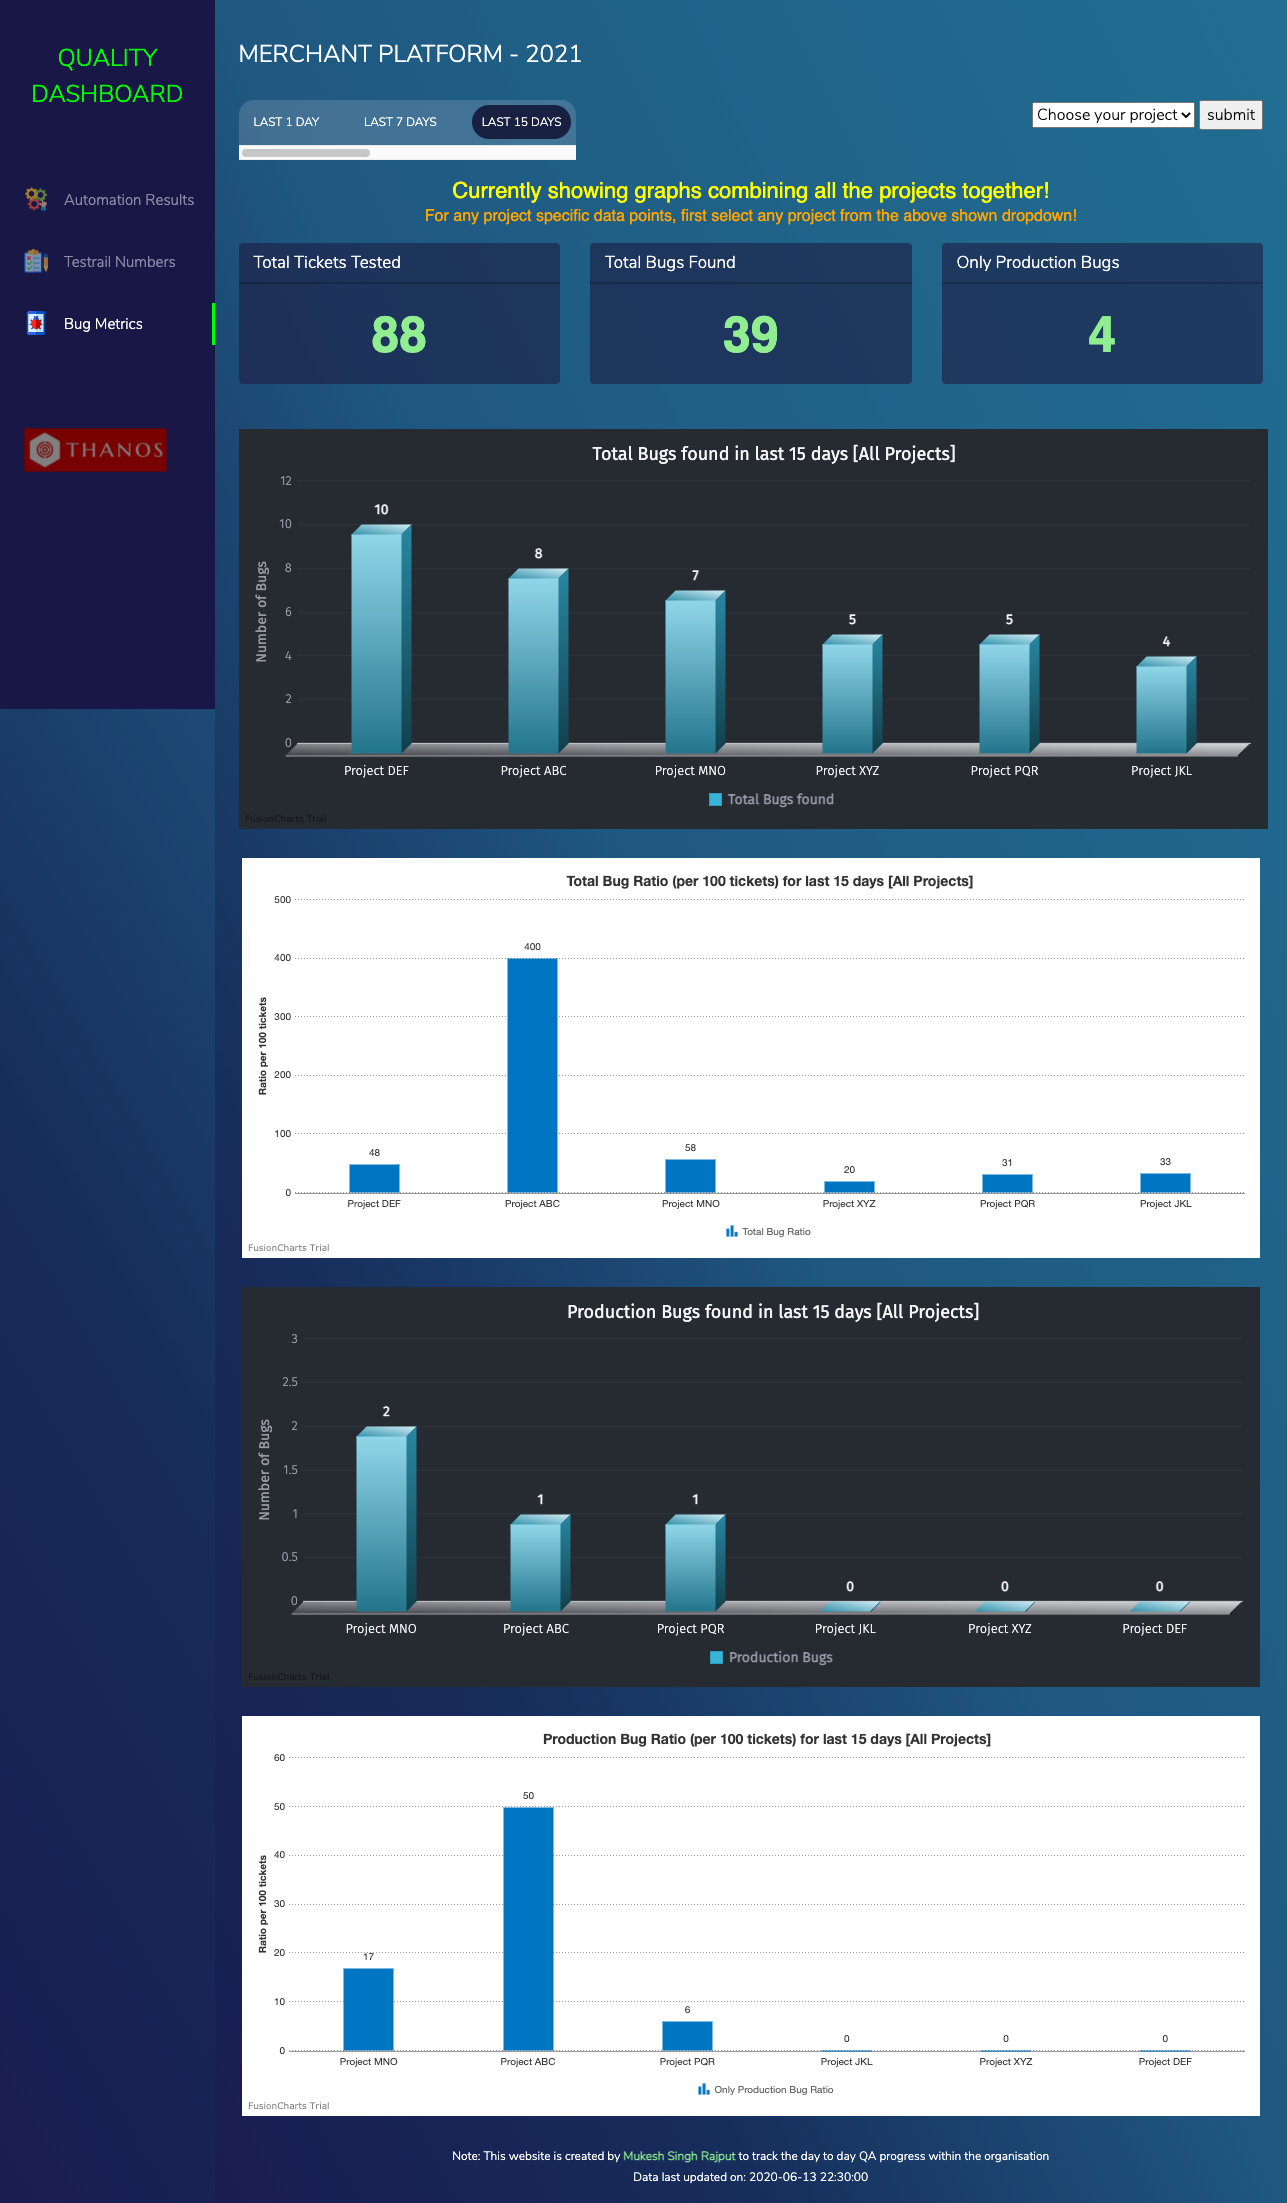
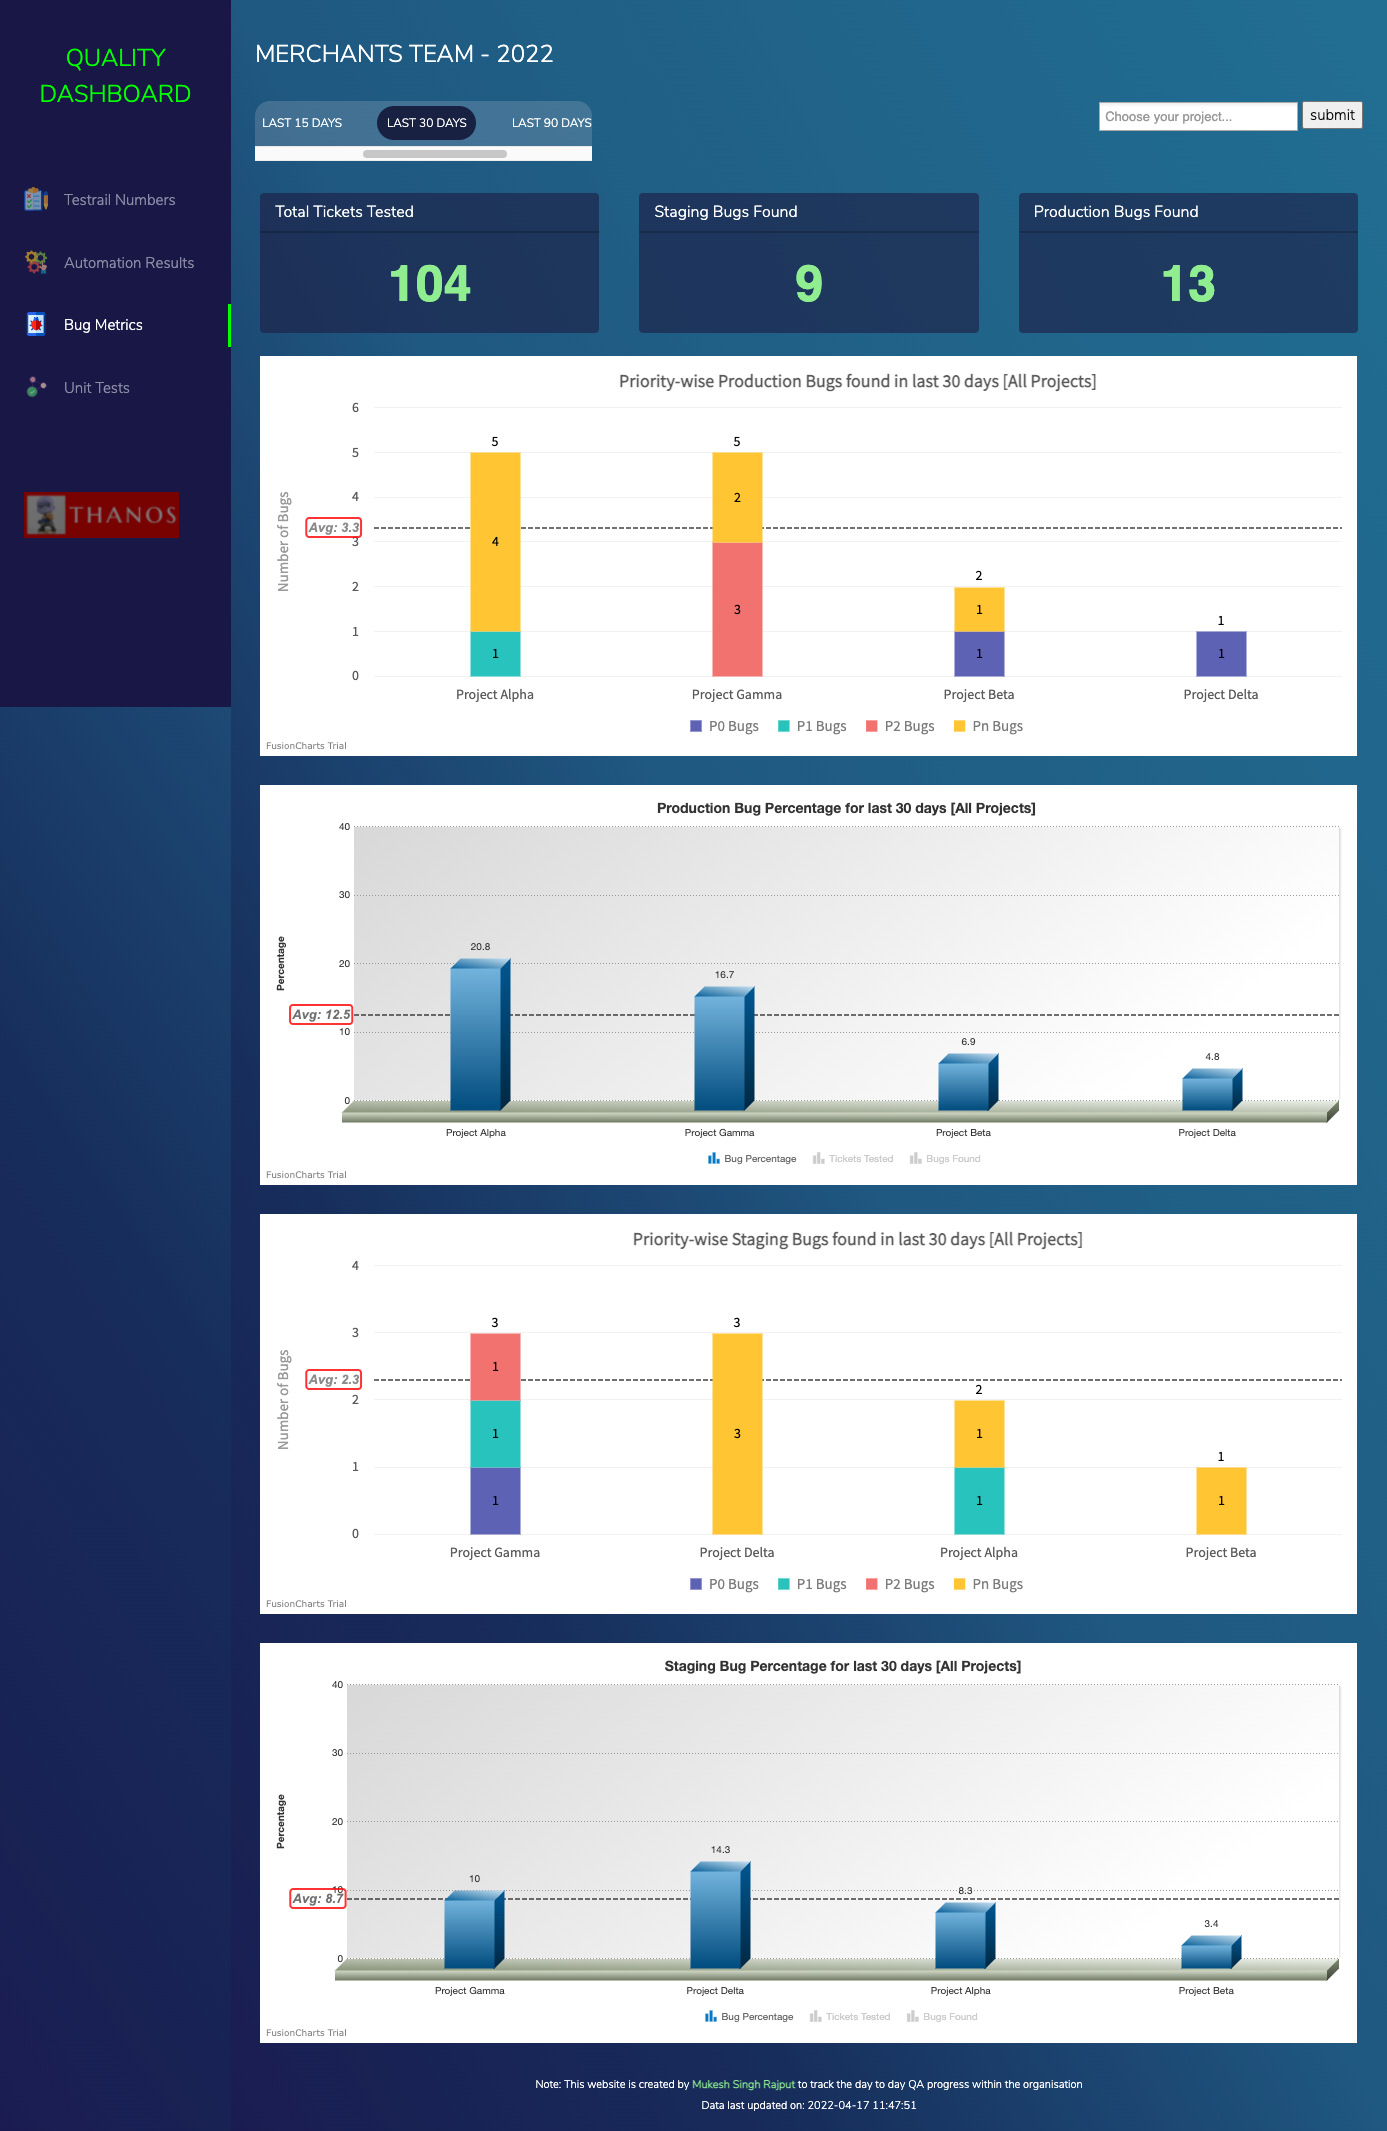
updated readme & screenshots

diff --git a/index.php b/index.php
@@ -41,7 +41,7 @@
                                             <div id="parent1" class="col-lg-6">
                                                 <div class="chart-card mb-4">
                                                     <center>
-                                                        <div class="chart-title" id="text2"><b>Select the name of your PDG / Vertical name:</b></div>
+                                                        <div class="chart-title" id="text2"><b>Select the name of your Team / Vertical name:</b></div>
                                                         <div id="chart1" class="project-dropdown">
                                                             <form name="testform" method="POST" action="testrail.php">
                                                                 <br>

diff --git a/README.md b/README.md
@@ -1,14 +1,16 @@
 <img src="https://raw.githubusercontent.com/msr5464/BasicFramework/master/Drivers/ThanosLogo.png" title="Powered by Thanos and created by Mukesh Rajput" height="50">
 
 # QUALITY DASHBOARD
-The purpose of creating this dashboard is to track the overall progress of QA activities in any organization which has a lot of teams and so its difficult to track each team individually.
+The purpose of creating this dashboard is to track the overall Quality Metrics of any product/service within any organization which has a lot of teams and so its difficult to track each team manually.
 
-### QA Dashboard can help to track:
-1. Daily progress report of `Automation Results` and Execution time for each team
+### QA Dashboard can help to track data for:
+1. Daily progress report of `Automation Results` and Execution time for each stream/product
 
 2. Progress in terms of `Testcases in Testrail` (or in any other testcase management tool), like how many total testcases we have, distribution in terms of manual/automation etc, distribution in terms of priority testcases, automation coverage
 
-3. Progress in terms of total tickets tested along with numbers of `Bugs found reported in Jira` (or any other ticket management tool), how many bugs are from the production/staging, what is the priority etc.
+3. Progress in terms of total tickets tested along with numbers of `Bugs reported in Jira` (or any other ticket management tool), how many bugs are from the production/staging, what is the priority etc.
+
+4. `Unit Tests Coverage` is helpful to track the code coverage for developer's code via Unit Tests (written by devs). It supports not only Line Coverage but also Statement Coverage, Branch Coverage & Function Coverage (default is line coverage).
 
 
 ### Live Demo of QA Dashboard:
@@ -24,10 +26,10 @@ If its Mac, php server comes installed by default, just run this cmd to start se
 And then start the server using: `mysql.server start`
 
 #### 3. Setup Database and tables
-Use [this basic mysql dump file](server/mysql-dump.sql "mysql-dump.sql") to create database and insert few dummy entries, on the successful execution of this script you should get minimum 3 tables (`<verticalName>_results`, `<verticalName>_jira`, `<verticalName>_testrail`) created inside a database named as `thanos`
+Use [this basic mysql dump file](utils/mysql-dump.sql "mysql-dump.sql") to create database and insert few dummy entries, on the successful execution of this script you should get minimum 4 tables (`<teamName>_results`, `<teamName>_jira`, `<teamName>_testrail`, `<teamName>_units`) created inside a database named as `thanos`
 
 #### 4. Clone this repo in your machine
-After cloning the repo, navigate to the `server` folder and update database credentails in [this db config file](server/db-config.php "db-config.php")
+After cloning the repo, navigate to the `utils` folder and update database credentails in [this file](utils/constants.php "constants.php")
 
 ## Start Web Server:
 Start the php server and navigate to `http://localhost:8282`, you should see the home page as shown in screenshots below.
@@ -56,6 +58,12 @@ Start the php server and navigate to `http://localhost:8282`, you should see the
 ### Bug Metrics Page for one Project:
 ![Bugs Page](screenshots/bugsPage2.png "Bug Metrics Page for one Project")
 
+### Unit Tests Coverage Page for all the Projects:
+![Bugs Page](screenshots/unitTestsPage1.png "Unit Tests Coverage Page for all the Projects")
+
+### Unit Tests Coverage Page for one Project:
+![Bugs Page](screenshots/unitTestsPage2.png "Unit Tests Coverage Page for one Project")
+
 
 ## Tools/Languages Used:
 ##### HTML
@@ -65,20 +73,23 @@ Start the php server and navigate to `http://localhost:8282`, you should see the
 
 
 ## How I am populating data in mysql tables:
-1. For `<verticalName>_results table` - I have updated my automation framework to insert required data in `results` table at the end of each automation execution.
+1. For `<teamName>_results table` - I have updated my automation framework to insert required data in `results` table at the end of each automation execution.
 
-2. For `<verticalName>_testrail table` - Please don't be confused with the table name, it is not only limited to testrail numbers, but these numbers can also be fetched from any testcase management tool. I have used APIs of Testrail to fetch all the required numbers from Testrail and then inserting them in the `testrail` table twice a week.
+2. For `<teamName>_testrail table` - Please don't be confused with the table name, it is not only limited to testrail numbers, but these numbers can also be fetched from any testcase management tool. I have used APIs of Testrail to fetch all the required numbers from Testrail and then inserting them in the `testrail` table twice a week.
 
-3. For `<verticalName>_jira table` - Again don't be confused with the table name, it is not only limited to jira numbers, but these numbers can also be fetched from any ticket management tool. I have used APIs of Jira to fetch all the required numbers from Jira and then inserting them in the `jira` table twice a week.
+3. For `<teamName>_jira table` - Again don't be confused with the table name, it is not only limited to jira numbers, but these numbers can also be fetched from any ticket management tool. I have used APIs of Jira to fetch all the required numbers from Jira and then inserting them in the `jira` table twice a week.
 
-Point is, no matter if you insert data manually or via automation scripts, till the time you are able to add data in these 3 tables daily/weekly, your dashboard will keep showing updated data and graphs.
+4. For `<pdgName>_units table` - This table is used to store the code coverage data sent by developer's pipeline into GCP bucket and from ther our worker read csv files and populate data into this table everyday.
+
+Point is, no matter if you insert data manually or via automation scripts, till the time you are able to add data in these 4 tables daily/weekly, your dashboard will keep showing updated data and graphs.
+
 
 ## Debugging:
 1. Incase your mysql server is not able to execute some of the queries and showing error something like: 
 `Error Code: 1055. Expression #2 of SELECT list is not in GROUP BY clause and contains nonaggregated column 'thanos.a.totalTicketsTested' which is not functionally dependent on columns in GROUP BY clause; this is incompatible with sql_mode=only_full_group_by`.<br>
  Then run this query in the mysql terminal or UI: `set global sql_mode='';` and start the sql connection again, please remember that if you restart the mysql server or your laptop then you might need to execute this cmd again.
 
-2. If you are seeing `Error!: SQLSTATE[HY000] [1045] Access denied for user 'root'@'localhost' (using password: NO)` on the dashboard it means your db credentials are incorrect, you need to modify them in [this db config file](server/db-config.php "db-config.php")
+2. If you are seeing `Error!: SQLSTATE[HY000] [1045] Access denied for user 'root'@'localhost' (using password: NO)` on the dashboard it means your db credentials are incorrect, you need to modify them in [this file](utils/constants.php "constants.php")
 
 Incase there are some more bugs/issues, you can report to `Issues` section of this repo.
 
